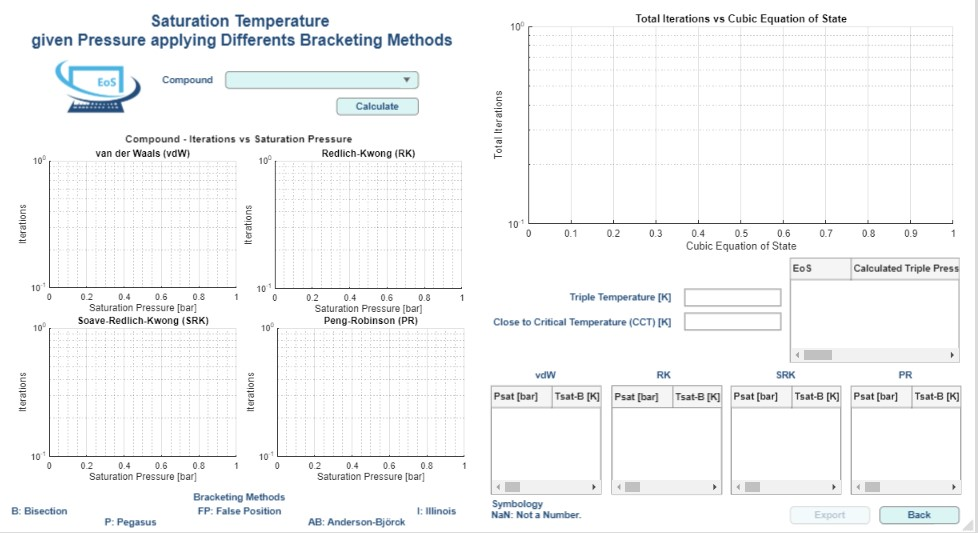
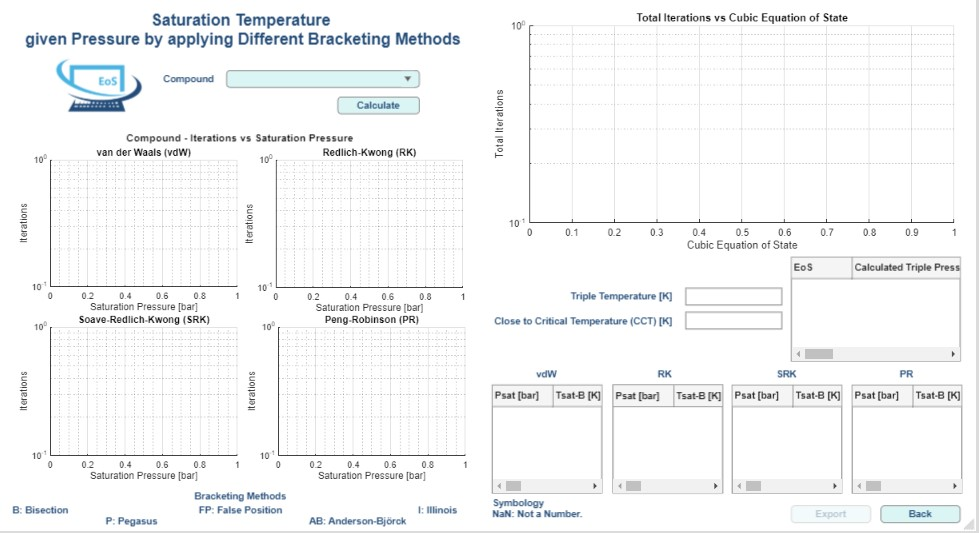
Code Documentation

diff --git a/Cubic Equations of State Simulator/Code Documentation/Volume 4 - Saturation Temperature given Pressure by applying Different Bracketing Methods.md b/Cubic Equations of State Simulator/Code Documentation/Volume 4 - Saturation Temperature given Pressure by applying Different Bracketing Methods.md
@@ -1,4 +1,4 @@
-# Saturation Temperature given Pressure applying Differents Bracketing Methods
+# Saturation Temperature given Pressure by applying Different Bracketing Methods
 
 This is the fourth option in the volume menu. Its interface is programmed in "Volume4.mlapp" and it uses the function called "Saturation_Temperature_given_Pressure.m" for thermodynamic calculations.
 
@@ -157,76 +157,76 @@ classdef Volume4 < matlab.apps.AppBase
             table2PR.Properties.VariableNames{'Var9'}='Iterations-P';
             table2PR.Properties.VariableNames{'Var10'}='Tsat-AB [K]';
             table2PR.Properties.VariableNames{'Var11'}='Iterations-AB';
-            writecell(cell(10,8),"./Results/Saturation Temperature given Pressure applying Differents Bracketing Methods.xlsx","Sheet","Total Iterations vs EoS","Range","A1");
-            writetable(table1,"./Results/Saturation Temperature given Pressure applying Differents Bracketing Methods.xlsx","Sheet","Total Iterations vs EoS","Range","A4");
-            writecell({'Compound'},"./Results/Saturation Temperature given Pressure applying Differents Bracketing Methods.xlsx","Sheet","Total Iterations vs EoS","Range","A1");
-            writecell({'Triple Temperature [K]'},"./Results/Saturation Temperature given Pressure applying Differents Bracketing Methods.xlsx","Sheet","Total Iterations vs EoS","Range","A2");
-            writecell({'Close to Critical Temperature (CCT) [K]'},"./Results/Saturation Temperature given Pressure applying Differents Bracketing Methods.xlsx","Sheet","Total Iterations vs EoS","Range","A3");
-            writecell({app.Compound.Value},"./Results/Saturation Temperature given Pressure applying Differents Bracketing Methods.xlsx","Sheet","Total Iterations vs EoS","Range","B1");
-            writematrix(str2double({app.TripleTemperature.Value}),"./Results/Saturation Temperature given Pressure applying Differents Bracketing Methods.xlsx","Sheet","Total Iterations vs EoS","Range","B2");
-            writematrix(str2double({app.CriticalTemperature.Value}),"./Results/Saturation Temperature given Pressure applying Differents Bracketing Methods.xlsx","Sheet","Total Iterations vs EoS","Range","B3");
-            writecell(cell(5000,11),"./Results/Saturation Temperature given Pressure applying Differents Bracketing Methods.xlsx","Sheet","vdW - Iterations vs Psat","Range","A1");
-            writetable(table2vdW,"./Results/Saturation Temperature given Pressure applying Differents Bracketing Methods.xlsx","Sheet","vdW - Iterations vs Psat");
+            writecell(cell(10,8),"./Results/Saturation Temperature given Pressure by applying Differents Bracketing Methods.xlsx","Sheet","Total Iterations vs EoS","Range","A1");
+            writetable(table1,"./Results/Saturation Temperature given Pressure by applying Differents Bracketing Methods.xlsx","Sheet","Total Iterations vs EoS","Range","A4");
+            writecell({'Compound'},"./Results/Saturation Temperature given Pressure by applying Differents Bracketing Methods.xlsx","Sheet","Total Iterations vs EoS","Range","A1");
+            writecell({'Triple Temperature [K]'},"./Results/Saturation Temperature given Pressure by applying Differents Bracketing Methods.xlsx","Sheet","Total Iterations vs EoS","Range","A2");
+            writecell({'Close to Critical Temperature (CCT) [K]'},"./Results/Saturation Temperature given Pressure by applying Differents Bracketing Methods.xlsx","Sheet","Total Iterations vs EoS","Range","A3");
+            writecell({app.Compound.Value},"./Results/Saturation Temperature given Pressure by applying Differents Bracketing Methods.xlsx","Sheet","Total Iterations vs EoS","Range","B1");
+            writematrix(str2double({app.TripleTemperature.Value}),"./Results/Saturation Temperature given Pressure by applying Differents Bracketing Methods.xlsx","Sheet","Total Iterations vs EoS","Range","B2");
+            writematrix(str2double({app.CriticalTemperature.Value}),"./Results/Saturation Temperature given Pressure by applying Differents Bracketing Methods.xlsx","Sheet","Total Iterations vs EoS","Range","B3");
+            writecell(cell(5000,11),"./Results/Saturation Temperature given Pressure by applying Differents Bracketing Methods.xlsx","Sheet","vdW - Iterations vs Psat","Range","A1");
+            writetable(table2vdW,"./Results/Saturation Temperature given Pressure by applying Differents Bracketing Methods.xlsx","Sheet","vdW - Iterations vs Psat");
             for i=2:1+height(table2vdW)
-                if ismissing(string(readcell("./Results/Saturation Temperature given Pressure applying Differents Bracketing Methods.xlsx","Sheet","vdW - Iterations vs Psat","Range",[i,2,i,2])))
-                    writecell({'NaN'},"./Results/Saturation Temperature given Pressure applying Differents Bracketing Methods.xlsx","Sheet","vdW - Iterations vs Psat","Range",['B',num2str(i)]);
-                    writecell({'NaN'},"./Results/Saturation Temperature given Pressure applying Differents Bracketing Methods.xlsx","Sheet","vdW - Iterations vs Psat","Range",['C',num2str(i)]);
-                    writecell({'NaN'},"./Results/Saturation Temperature given Pressure applying Differents Bracketing Methods.xlsx","Sheet","vdW - Iterations vs Psat","Range",['D',num2str(i)]);
-                    writecell({'NaN'},"./Results/Saturation Temperature given Pressure applying Differents Bracketing Methods.xlsx","Sheet","vdW - Iterations vs Psat","Range",['E',num2str(i)]);
-                    writecell({'NaN'},"./Results/Saturation Temperature given Pressure applying Differents Bracketing Methods.xlsx","Sheet","vdW - Iterations vs Psat","Range",['F',num2str(i)]);
-                    writecell({'NaN'},"./Results/Saturation Temperature given Pressure applying Differents Bracketing Methods.xlsx","Sheet","vdW - Iterations vs Psat","Range",['G',num2str(i)]);
-                    writecell({'NaN'},"./Results/Saturation Temperature given Pressure applying Differents Bracketing Methods.xlsx","Sheet","vdW - Iterations vs Psat","Range",['H',num2str(i)]);
-                    writecell({'NaN'},"./Results/Saturation Temperature given Pressure applying Differents Bracketing Methods.xlsx","Sheet","vdW - Iterations vs Psat","Range",['I',num2str(i)]);
-                    writecell({'NaN'},"./Results/Saturation Temperature given Pressure applying Differents Bracketing Methods.xlsx","Sheet","vdW - Iterations vs Psat","Range",['J',num2str(i)]);
-                    writecell({'NaN'},"./Results/Saturation Temperature given Pressure applying Differents Bracketing Methods.xlsx","Sheet","vdW - Iterations vs Psat","Range",['K',num2str(i)]);
+                if ismissing(string(readcell("./Results/Saturation Temperature given Pressure by applying Differents Bracketing Methods.xlsx","Sheet","vdW - Iterations vs Psat","Range",[i,2,i,2])))
+                    writecell({'NaN'},"./Results/Saturation Temperature given Pressure by applying Differents Bracketing Methods.xlsx","Sheet","vdW - Iterations vs Psat","Range",['B',num2str(i)]);
+                    writecell({'NaN'},"./Results/Saturation Temperature given Pressure by applying Differents Bracketing Methods.xlsx","Sheet","vdW - Iterations vs Psat","Range",['C',num2str(i)]);
+                    writecell({'NaN'},"./Results/Saturation Temperature given Pressure by applying Differents Bracketing Methods.xlsx","Sheet","vdW - Iterations vs Psat","Range",['D',num2str(i)]);
+                    writecell({'NaN'},"./Results/Saturation Temperature given Pressure by applying Differents Bracketing Methods.xlsx","Sheet","vdW - Iterations vs Psat","Range",['E',num2str(i)]);
+                    writecell({'NaN'},"./Results/Saturation Temperature given Pressure by applying Differents Bracketing Methods.xlsx","Sheet","vdW - Iterations vs Psat","Range",['F',num2str(i)]);
+                    writecell({'NaN'},"./Results/Saturation Temperature given Pressure by applying Differents Bracketing Methods.xlsx","Sheet","vdW - Iterations vs Psat","Range",['G',num2str(i)]);
+                    writecell({'NaN'},"./Results/Saturation Temperature given Pressure by applying Differents Bracketing Methods.xlsx","Sheet","vdW - Iterations vs Psat","Range",['H',num2str(i)]);
+                    writecell({'NaN'},"./Results/Saturation Temperature given Pressure by applying Differents Bracketing Methods.xlsx","Sheet","vdW - Iterations vs Psat","Range",['I',num2str(i)]);
+                    writecell({'NaN'},"./Results/Saturation Temperature given Pressure by applying Differents Bracketing Methods.xlsx","Sheet","vdW - Iterations vs Psat","Range",['J',num2str(i)]);
+                    writecell({'NaN'},"./Results/Saturation Temperature given Pressure by applying Differents Bracketing Methods.xlsx","Sheet","vdW - Iterations vs Psat","Range",['K',num2str(i)]);
                 end
             end
-            writecell(cell(5000,11),"./Results/Saturation Temperature given Pressure applying Differents Bracketing Methods.xlsx","Sheet","RK - Iterations vs Psat","Range","A1");
-            writetable(table2RK,"./Results/Saturation Temperature given Pressure applying Differents Bracketing Methods.xlsx","Sheet","RK - Iterations vs Psat");
+            writecell(cell(5000,11),"./Results/Saturation Temperature given Pressure by applying Differents Bracketing Methods.xlsx","Sheet","RK - Iterations vs Psat","Range","A1");
+            writetable(table2RK,"./Results/Saturation Temperature given Pressure by applying Differents Bracketing Methods.xlsx","Sheet","RK - Iterations vs Psat");
             for i=2:1+height(table2RK)
-                if ismissing(string(readcell("./Results/Saturation Temperature given Pressure applying Differents Bracketing Methods.xlsx","Sheet","RK - Iterations vs Psat","Range",[i,2,i,2])))
-                    writecell({'NaN'},"./Results/Saturation Temperature given Pressure applying Differents Bracketing Methods.xlsx","Sheet","RK - Iterations vs Psat","Range",['B',num2str(i)]);
-                    writecell({'NaN'},"./Results/Saturation Temperature given Pressure applying Differents Bracketing Methods.xlsx","Sheet","RK - Iterations vs Psat","Range",['C',num2str(i)]);
-                    writecell({'NaN'},"./Results/Saturation Temperature given Pressure applying Differents Bracketing Methods.xlsx","Sheet","RK - Iterations vs Psat","Range",['D',num2str(i)]);
-                    writecell({'NaN'},"./Results/Saturation Temperature given Pressure applying Differents Bracketing Methods.xlsx","Sheet","RK - Iterations vs Psat","Range",['E',num2str(i)]);
-                    writecell({'NaN'},"./Results/Saturation Temperature given Pressure applying Differents Bracketing Methods.xlsx","Sheet","RK - Iterations vs Psat","Range",['F',num2str(i)]);
-                    writecell({'NaN'},"./Results/Saturation Temperature given Pressure applying Differents Bracketing Methods.xlsx","Sheet","RK - Iterations vs Psat","Range",['G',num2str(i)]);
-                    writecell({'NaN'},"./Results/Saturation Temperature given Pressure applying Differents Bracketing Methods.xlsx","Sheet","RK - Iterations vs Psat","Range",['H',num2str(i)]);
-                    writecell({'NaN'},"./Results/Saturation Temperature given Pressure applying Differents Bracketing Methods.xlsx","Sheet","RK - Iterations vs Psat","Range",['I',num2str(i)]);
-                    writecell({'NaN'},"./Results/Saturation Temperature given Pressure applying Differents Bracketing Methods.xlsx","Sheet","RK - Iterations vs Psat","Range",['J',num2str(i)]);
-                    writecell({'NaN'},"./Results/Saturation Temperature given Pressure applying Differents Bracketing Methods.xlsx","Sheet","RK - Iterations vs Psat","Range",['K',num2str(i)]);
+                if ismissing(string(readcell("./Results/Saturation Temperature given Pressure by applying Differents Bracketing Methods.xlsx","Sheet","RK - Iterations vs Psat","Range",[i,2,i,2])))
+                    writecell({'NaN'},"./Results/Saturation Temperature given Pressure by applying Differents Bracketing Methods.xlsx","Sheet","RK - Iterations vs Psat","Range",['B',num2str(i)]);
+                    writecell({'NaN'},"./Results/Saturation Temperature given Pressure by applying Differents Bracketing Methods.xlsx","Sheet","RK - Iterations vs Psat","Range",['C',num2str(i)]);
+                    writecell({'NaN'},"./Results/Saturation Temperature given Pressure by applying Differents Bracketing Methods.xlsx","Sheet","RK - Iterations vs Psat","Range",['D',num2str(i)]);
+                    writecell({'NaN'},"./Results/Saturation Temperature given Pressure by applying Differents Bracketing Methods.xlsx","Sheet","RK - Iterations vs Psat","Range",['E',num2str(i)]);
+                    writecell({'NaN'},"./Results/Saturation Temperature given Pressure by applying Differents Bracketing Methods.xlsx","Sheet","RK - Iterations vs Psat","Range",['F',num2str(i)]);
+                    writecell({'NaN'},"./Results/Saturation Temperature given Pressure by applying Differents Bracketing Methods.xlsx","Sheet","RK - Iterations vs Psat","Range",['G',num2str(i)]);
+                    writecell({'NaN'},"./Results/Saturation Temperature given Pressure by applying Differents Bracketing Methods.xlsx","Sheet","RK - Iterations vs Psat","Range",['H',num2str(i)]);
+                    writecell({'NaN'},"./Results/Saturation Temperature given Pressure by applying Differents Bracketing Methods.xlsx","Sheet","RK - Iterations vs Psat","Range",['I',num2str(i)]);
+                    writecell({'NaN'},"./Results/Saturation Temperature given Pressure by applying Differents Bracketing Methods.xlsx","Sheet","RK - Iterations vs Psat","Range",['J',num2str(i)]);
+                    writecell({'NaN'},"./Results/Saturation Temperature given Pressure by applying Differents Bracketing Methods.xlsx","Sheet","RK - Iterations vs Psat","Range",['K',num2str(i)]);
                 end
             end
-            writecell(cell(5000,11),"./Results/Saturation Temperature given Pressure applying Differents Bracketing Methods.xlsx","Sheet","SRK - Iterations vs Psat","Range","A1");
-            writetable(table2SRK,"./Results/Saturation Temperature given Pressure applying Differents Bracketing Methods.xlsx","Sheet","SRK - Iterations vs Psat");
+            writecell(cell(5000,11),"./Results/Saturation Temperature given Pressure by applying Differents Bracketing Methods.xlsx","Sheet","SRK - Iterations vs Psat","Range","A1");
+            writetable(table2SRK,"./Results/Saturation Temperature given Pressure by applying Differents Bracketing Methods.xlsx","Sheet","SRK - Iterations vs Psat");
             for i=2:1+height(table2SRK)
-                if ismissing(string(readcell("./Results/Saturation Temperature given Pressure applying Differents Bracketing Methods.xlsx","Sheet","SRK - Iterations vs Psat","Range",[i,2,i,2])))
-                    writecell({'NaN'},"./Results/Saturation Temperature given Pressure applying Differents Bracketing Methods.xlsx","Sheet","SRK - Iterations vs Psat","Range",['B',num2str(i)]);
-                    writecell({'NaN'},"./Results/Saturation Temperature given Pressure applying Differents Bracketing Methods.xlsx","Sheet","SRK - Iterations vs Psat","Range",['C',num2str(i)]);
-                    writecell({'NaN'},"./Results/Saturation Temperature given Pressure applying Differents Bracketing Methods.xlsx","Sheet","SRK - Iterations vs Psat","Range",['D',num2str(i)]);
-                    writecell({'NaN'},"./Results/Saturation Temperature given Pressure applying Differents Bracketing Methods.xlsx","Sheet","SRK - Iterations vs Psat","Range",['E',num2str(i)]);
-                    writecell({'NaN'},"./Results/Saturation Temperature given Pressure applying Differents Bracketing Methods.xlsx","Sheet","SRK - Iterations vs Psat","Range",['F',num2str(i)]);
-                    writecell({'NaN'},"./Results/Saturation Temperature given Pressure applying Differents Bracketing Methods.xlsx","Sheet","SRK - Iterations vs Psat","Range",['G',num2str(i)]);
-                    writecell({'NaN'},"./Results/Saturation Temperature given Pressure applying Differents Bracketing Methods.xlsx","Sheet","SRK - Iterations vs Psat","Range",['H',num2str(i)]);
-                    writecell({'NaN'},"./Results/Saturation Temperature given Pressure applying Differents Bracketing Methods.xlsx","Sheet","SRK - Iterations vs Psat","Range",['I',num2str(i)]);
-                    writecell({'NaN'},"./Results/Saturation Temperature given Pressure applying Differents Bracketing Methods.xlsx","Sheet","SRK - Iterations vs Psat","Range",['J',num2str(i)]);
-                    writecell({'NaN'},"./Results/Saturation Temperature given Pressure applying Differents Bracketing Methods.xlsx","Sheet","SRK - Iterations vs Psat","Range",['K',num2str(i)]);
+                if ismissing(string(readcell("./Results/Saturation Temperature given Pressure by applying Differents Bracketing Methods.xlsx","Sheet","SRK - Iterations vs Psat","Range",[i,2,i,2])))
+                    writecell({'NaN'},"./Results/Saturation Temperature given Pressure by applying Differents Bracketing Methods.xlsx","Sheet","SRK - Iterations vs Psat","Range",['B',num2str(i)]);
+                    writecell({'NaN'},"./Results/Saturation Temperature given Pressure by applying Differents Bracketing Methods.xlsx","Sheet","SRK - Iterations vs Psat","Range",['C',num2str(i)]);
+                    writecell({'NaN'},"./Results/Saturation Temperature given Pressure by applying Differents Bracketing Methods.xlsx","Sheet","SRK - Iterations vs Psat","Range",['D',num2str(i)]);
+                    writecell({'NaN'},"./Results/Saturation Temperature given Pressure by applying Differents Bracketing Methods.xlsx","Sheet","SRK - Iterations vs Psat","Range",['E',num2str(i)]);
+                    writecell({'NaN'},"./Results/Saturation Temperature given Pressure by applying Differents Bracketing Methods.xlsx","Sheet","SRK - Iterations vs Psat","Range",['F',num2str(i)]);
+                    writecell({'NaN'},"./Results/Saturation Temperature given Pressure by applying Differents Bracketing Methods.xlsx","Sheet","SRK - Iterations vs Psat","Range",['G',num2str(i)]);
+                    writecell({'NaN'},"./Results/Saturation Temperature given Pressure by applying Differents Bracketing Methods.xlsx","Sheet","SRK - Iterations vs Psat","Range",['H',num2str(i)]);
+                    writecell({'NaN'},"./Results/Saturation Temperature given Pressure by applying Differents Bracketing Methods.xlsx","Sheet","SRK - Iterations vs Psat","Range",['I',num2str(i)]);
+                    writecell({'NaN'},"./Results/Saturation Temperature given Pressure by applying Differents Bracketing Methods.xlsx","Sheet","SRK - Iterations vs Psat","Range",['J',num2str(i)]);
+                    writecell({'NaN'},"./Results/Saturation Temperature given Pressure by applying Differents Bracketing Methods.xlsx","Sheet","SRK - Iterations vs Psat","Range",['K',num2str(i)]);
                 end
             end
-            writecell(cell(5000,11),"./Results/Saturation Temperature given Pressure applying Differents Bracketing Methods.xlsx","Sheet","PR - Iterations vs Psat","Range","A1");
-            writetable(table2PR,"./Results/Saturation Temperature given Pressure applying Differents Bracketing Methods.xlsx","Sheet","PR - Iterations vs Psat");
+            writecell(cell(5000,11),"./Results/Saturation Temperature given Pressure by applying Differents Bracketing Methods.xlsx","Sheet","PR - Iterations vs Psat","Range","A1");
+            writetable(table2PR,"./Results/Saturation Temperature given Pressure by applying Differents Bracketing Methods.xlsx","Sheet","PR - Iterations vs Psat");
             for i=2:1+height(table2PR)
-                if ismissing(string(readcell("./Results/Saturation Temperature given Pressure applying Differents Bracketing Methods.xlsx","Sheet","PR - Iterations vs Psat","Range",[i,2,i,2])))
-                    writecell({'NaN'},"./Results/Saturation Temperature given Pressure applying Differents Bracketing Methods.xlsx","Sheet","PR - Iterations vs Psat","Range",['B',num2str(i)]);
-                    writecell({'NaN'},"./Results/Saturation Temperature given Pressure applying Differents Bracketing Methods.xlsx","Sheet","PR - Iterations vs Psat","Range",['C',num2str(i)]);
-                    writecell({'NaN'},"./Results/Saturation Temperature given Pressure applying Differents Bracketing Methods.xlsx","Sheet","PR - Iterations vs Psat","Range",['D',num2str(i)]);
-                    writecell({'NaN'},"./Results/Saturation Temperature given Pressure applying Differents Bracketing Methods.xlsx","Sheet","PR - Iterations vs Psat","Range",['E',num2str(i)]);
-                    writecell({'NaN'},"./Results/Saturation Temperature given Pressure applying Differents Bracketing Methods.xlsx","Sheet","PR - Iterations vs Psat","Range",['F',num2str(i)]);
-                    writecell({'NaN'},"./Results/Saturation Temperature given Pressure applying Differents Bracketing Methods.xlsx","Sheet","PR - Iterations vs Psat","Range",['G',num2str(i)]);
-                    writecell({'NaN'},"./Results/Saturation Temperature given Pressure applying Differents Bracketing Methods.xlsx","Sheet","PR - Iterations vs Psat","Range",['H',num2str(i)]);
-                    writecell({'NaN'},"./Results/Saturation Temperature given Pressure applying Differents Bracketing Methods.xlsx","Sheet","PR - Iterations vs Psat","Range",['I',num2str(i)]);
-                    writecell({'NaN'},"./Results/Saturation Temperature given Pressure applying Differents Bracketing Methods.xlsx","Sheet","PR - Iterations vs Psat","Range",['J',num2str(i)]);
-                    writecell({'NaN'},"./Results/Saturation Temperature given Pressure applying Differents Bracketing Methods.xlsx","Sheet","PR - Iterations vs Psat","Range",['K',num2str(i)]);
+                if ismissing(string(readcell("./Results/Saturation Temperature given Pressure by applying Differents Bracketing Methods.xlsx","Sheet","PR - Iterations vs Psat","Range",[i,2,i,2])))
+                    writecell({'NaN'},"./Results/Saturation Temperature given Pressure by applying Differents Bracketing Methods.xlsx","Sheet","PR - Iterations vs Psat","Range",['B',num2str(i)]);
+                    writecell({'NaN'},"./Results/Saturation Temperature given Pressure by applying Differents Bracketing Methods.xlsx","Sheet","PR - Iterations vs Psat","Range",['C',num2str(i)]);
+                    writecell({'NaN'},"./Results/Saturation Temperature given Pressure by applying Differents Bracketing Methods.xlsx","Sheet","PR - Iterations vs Psat","Range",['D',num2str(i)]);
+                    writecell({'NaN'},"./Results/Saturation Temperature given Pressure by applying Differents Bracketing Methods.xlsx","Sheet","PR - Iterations vs Psat","Range",['E',num2str(i)]);
+                    writecell({'NaN'},"./Results/Saturation Temperature given Pressure by applying Differents Bracketing Methods.xlsx","Sheet","PR - Iterations vs Psat","Range",['F',num2str(i)]);
+                    writecell({'NaN'},"./Results/Saturation Temperature given Pressure by applying Differents Bracketing Methods.xlsx","Sheet","PR - Iterations vs Psat","Range",['G',num2str(i)]);
+                    writecell({'NaN'},"./Results/Saturation Temperature given Pressure by applying Differents Bracketing Methods.xlsx","Sheet","PR - Iterations vs Psat","Range",['H',num2str(i)]);
+                    writecell({'NaN'},"./Results/Saturation Temperature given Pressure by applying Differents Bracketing Methods.xlsx","Sheet","PR - Iterations vs Psat","Range",['I',num2str(i)]);
+                    writecell({'NaN'},"./Results/Saturation Temperature given Pressure by applying Differents Bracketing Methods.xlsx","Sheet","PR - Iterations vs Psat","Range",['J',num2str(i)]);
+                    writecell({'NaN'},"./Results/Saturation Temperature given Pressure by applying Differents Bracketing Methods.xlsx","Sheet","PR - Iterations vs Psat","Range",['K',num2str(i)]);
                 end
             end
             close(progressbar);
@@ -266,7 +266,7 @@ classdef Volume4 < matlab.apps.AppBase
             app.UIFigure = uifigure('Visible', 'off');
             app.UIFigure.Color = [1 1 1];
             app.UIFigure.Position = [100 100 1221 665];
-            app.UIFigure.Name = 'Saturation Temperature given Pressure applying Differents Bracketing Methods';
+            app.UIFigure.Name = 'Saturation Temperature given Pressure by applying Different Bracketing Methods';
             app.UIFigure.Icon = fullfile(pathToMLAPP, 'Logoico.png');
             app.UIFigure.Resize = 'off';
 
@@ -363,8 +363,8 @@ classdef Volume4 < matlab.apps.AppBase
             app.TsatgivenPapplyingDifferentsBracketingMethods.FontSize = 20;
             app.TsatgivenPapplyingDifferentsBracketingMethods.FontWeight = 'bold';
             app.TsatgivenPapplyingDifferentsBracketingMethods.FontColor = [0.1412 0.302 0.4784];
-            app.TsatgivenPapplyingDifferentsBracketingMethods.Position = [35 604 543 48];
-            app.TsatgivenPapplyingDifferentsBracketingMethods.Text = {'Saturation Temperature '; 'given Pressure applying Differents Bracketing Methods'};
+            app.TsatgivenPapplyingDifferentsBracketingMethods.Position = [26 604 561 48];
+            app.TsatgivenPapplyingDifferentsBracketingMethods.Text = {'Saturation Temperature '; 'given Pressure by applying Different Bracketing Methods'};
 
             % Create Table2vdW
             app.Table2vdW = uitable(app.UIFigure);
